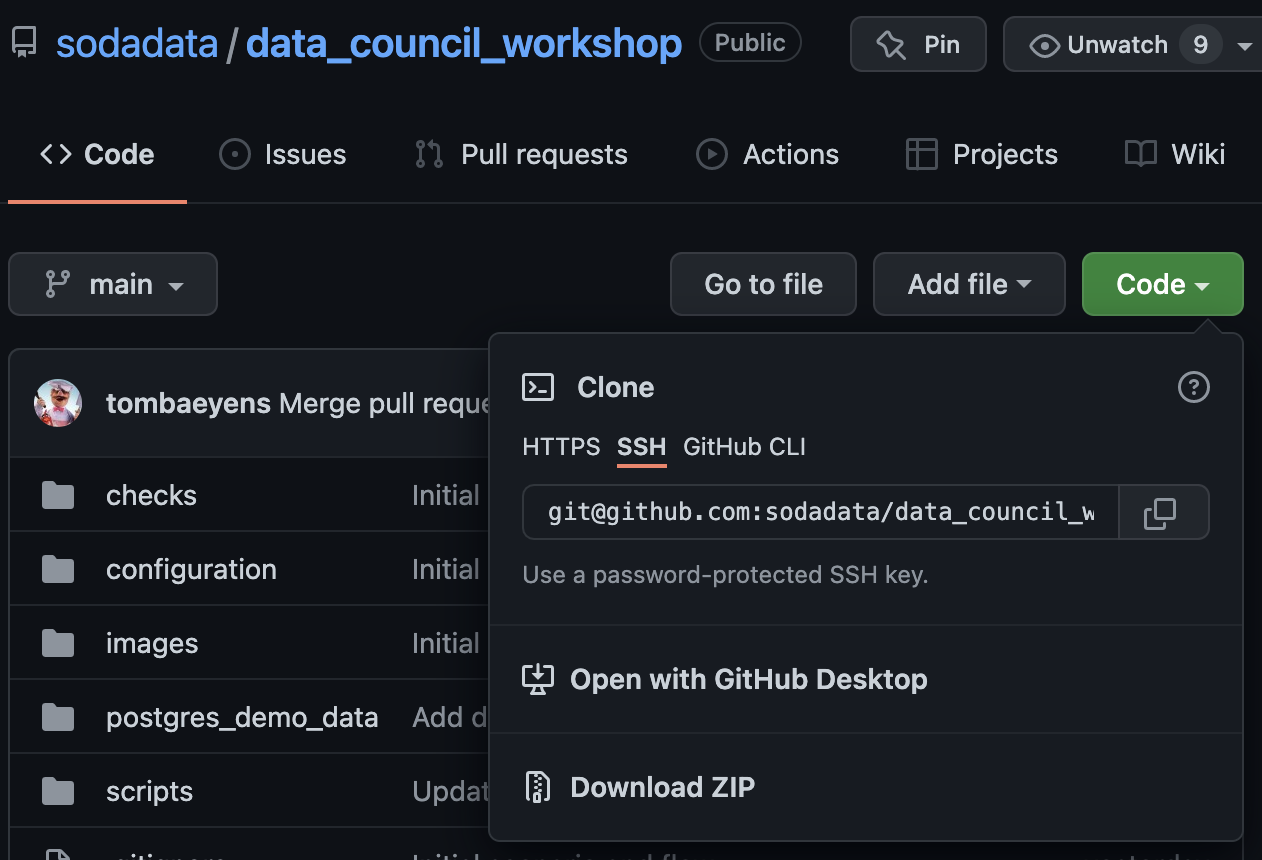
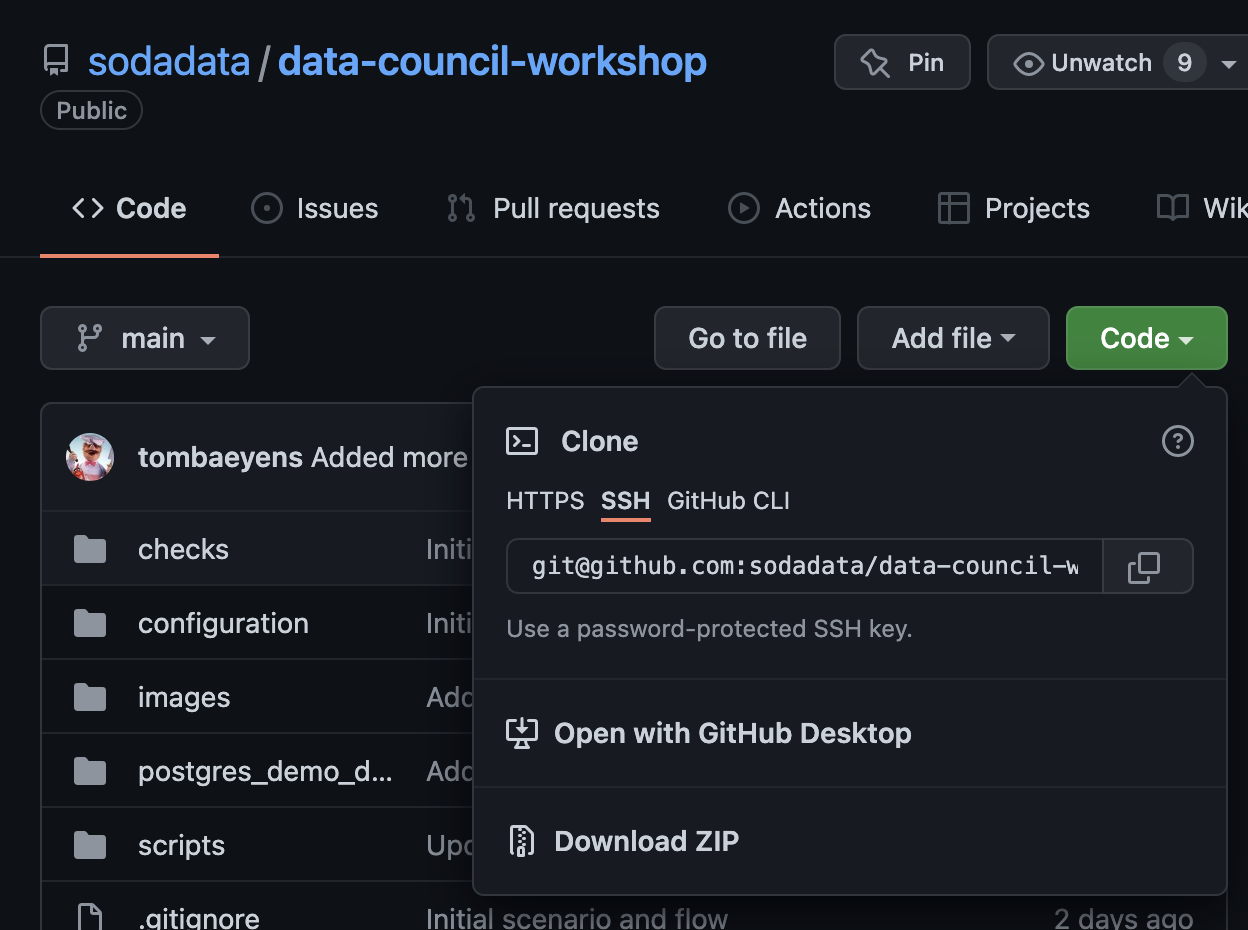
Updated project name to -

diff --git a/README.md b/README.md
@@ -7,7 +7,7 @@
 
 ## Get this repository
 
-Navigate to [https://go.soda.io/dcw](https://github.com/sodadata/data_council_workshop)
+Navigate to [https://go.soda.io/dcw](https://github.com/sodadata/data-council-workshop)
 
 Clone the repository with git or download the zip file. 
 
@@ -56,7 +56,7 @@ docker-compose up
 You should see output like
 
 ```
-[data_council_workshop] scripts/02_start_postgres.sh 
+[data-council-workshop] scripts/02_start_postgres.sh 
 Starting postgres_demo_data_soda-sql-postgres_1 ... done
 Attaching to postgres_demo_data_soda-sql-postgres_1
 soda-sql-postgres_1  | ********************************************************************************
@@ -114,10 +114,6 @@ If you encounter issues:
 
 Ask the community on [Slack](https://go.soda.io/slack).  Our experts will be monitoring the channel extra closely during the workshop.
 
-Or log [a new issue in our GitHub repo](https://github.com/sodadata/soda-core/issues/new)
-
-Next, proceed to the more advanced and cool checks
-
 Run SodaCL file `checks/02_advanced_and_cool.yml` 
 ```shell
 soda scan -c configuration/configuration.yml -d workshop_ds checks/02_advanced_and_cool.yml
@@ -129,6 +125,17 @@ Run SodaCL file `checks/03_analyst_use_cases.yml`
 ```shell
 soda scan -c configuration/configuration.yml -d workshop_ds checks/03_analyst_use_cases.yml
 ```
+
+## Feedback
+
+As this is the initial public release of our new SodaCL language, we want to hear 
+what you think.  Please give us your feedback on the 
+
+Or log [a new issue in our GitHub repo](https://github.com/sodadata/soda-core/issues/new)
+
+Next, proceed to the more advanced and cool checks
+
+
 
 ## Configuring the database in IntelliJ or Pycharm
 
